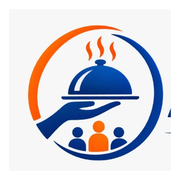
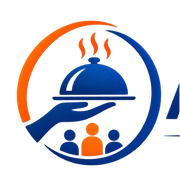
UI changes

diff --git a/components/BrandLogo.tsx b/components/BrandLogo.tsx
@@ -51,16 +51,15 @@ export default function BrandLogo({
         className={className}
       >
         <Image
-          src="/images/logo.png"
-          alt="AaharSetu Logo"
-          width={size * 3}
+          src="/icon.png"
+          alt="AaharSetu Icon"
+          width={size}
           height={size}
-          sizes={`${size * 3}px`}
+          sizes={`${size}px`}
           style={{
-            width: size * 3,
-            height: size,
-            objectFit: 'cover',
-            objectPosition: 'left center',
+            width: `${size}px`,
+            height: `${size}px`,
+            objectFit: 'contain',
           }}
           priority
         />
@@ -69,7 +68,7 @@ export default function BrandLogo({
   }
 
   const logoHeight = size;
-  const logoWidth = Math.round(logoHeight * 3.0);
+  const logoWidth = Math.round(logoHeight * 2.72);
 
   return (
     <div
@@ -90,7 +89,7 @@ export default function BrandLogo({
         alt="AaharSetu — AAHAR सेतु"
         width={logoWidth}
         height={logoHeight}
-        sizes={`(max-width: 768px) ${Math.min(logoWidth, 140)}px, ${logoWidth}px`}
+        sizes={`(max-width: 768px) ${Math.min(logoWidth, 160)}px, ${logoWidth}px`}
         style={{
           width: 'auto',
           height: `${logoHeight}px`,

diff --git a/app/login/login.module.css b/app/login/login.module.css
@@ -30,48 +30,9 @@
 .heroOverlay {
   position: absolute;
   inset: 0;
-  background: linear-gradient(180deg, rgba(15, 23, 42, 0.42) 0%, rgba(15, 23, 42, 0.78) 100%);
+  background: linear-gradient(180deg, rgba(15, 23, 42, 0.22) 0%, rgba(15, 23, 42, 0.65) 100%);
   z-index: 1;
   pointer-events: none;
-}
-
-/* Floating animated mesh gradient blobs */
-.hero::before {
-  content: '';
-  position: absolute;
-  top: -20%;
-  left: -20%;
-  width: 60%;
-  height: 60%;
-  background: radial-gradient(circle, rgba(99, 102, 241, 0.25) 0%, transparent 70%);
-  filter: blur(40px);
-  animation: floatBlob1 20s infinite alternate ease-in-out;
-  pointer-events: none;
-  z-index: 1;
-}
-
-.hero::after {
-  content: '';
-  position: absolute;
-  bottom: -10%;
-  right: -10%;
-  width: 50%;
-  height: 50%;
-  background: radial-gradient(circle, rgba(16, 185, 129, 0.15) 0%, transparent 70%);
-  filter: blur(40px);
-  animation: floatBlob2 15s infinite alternate ease-in-out;
-  pointer-events: none;
-  z-index: 1;
-}
-
-@keyframes floatBlob1 {
-  0% { transform: translate(0, 0) scale(1); }
-  100% { transform: translate(100px, 50px) scale(1.2); }
-}
-
-@keyframes floatBlob2 {
-  0% { transform: translate(0, 0) scale(1); }
-  100% { transform: translate(-80px, -40px) scale(1.15); }
 }
 
 .heroHeader {

diff --git a/app/login/page.tsx b/app/login/page.tsx
@@ -224,7 +224,7 @@ function LoginFormContent() {
           priority
           // @ts-ignore
           fetchPriority="high"
-          quality={60}
+          quality={92}
           sizes="(max-width: 992px) 100vw, 45vw"
           className={styles.heroBgImage}
         />
